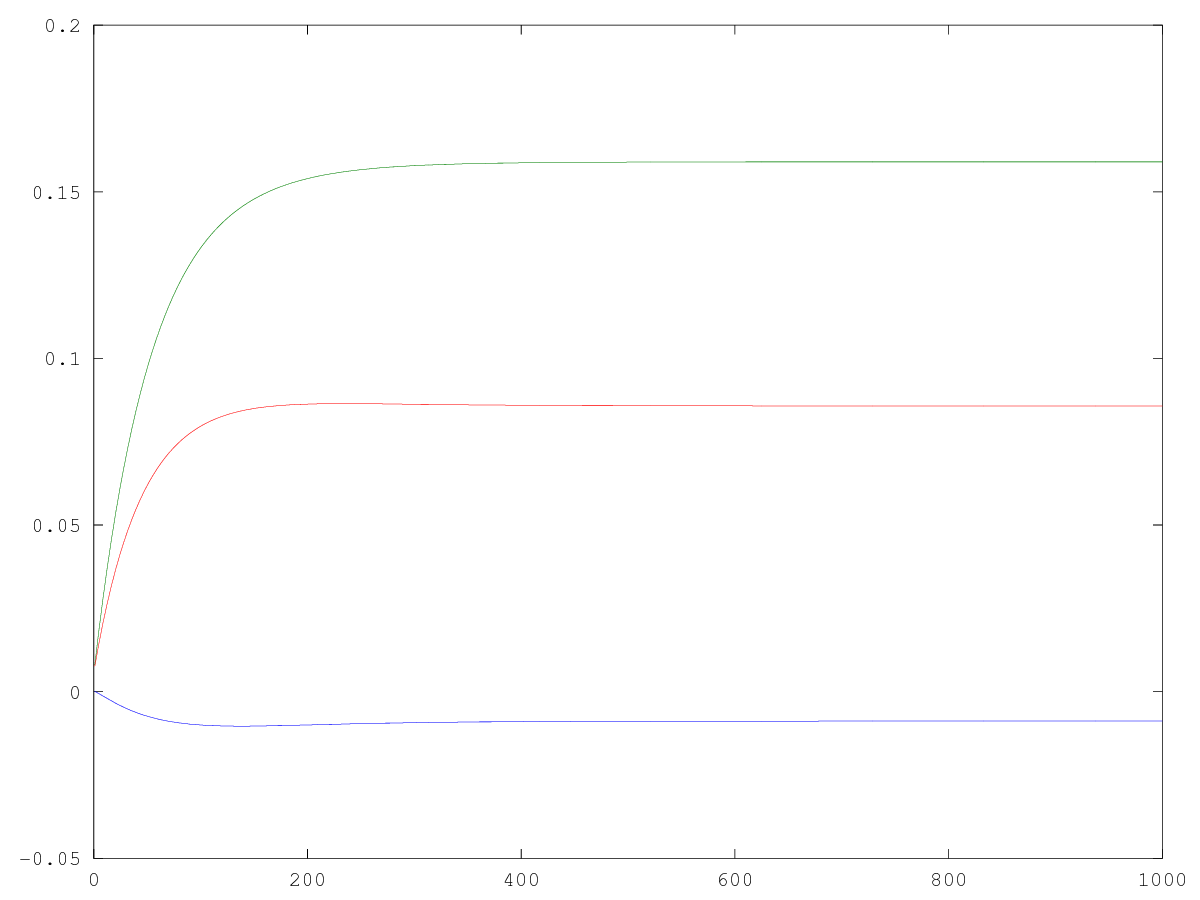
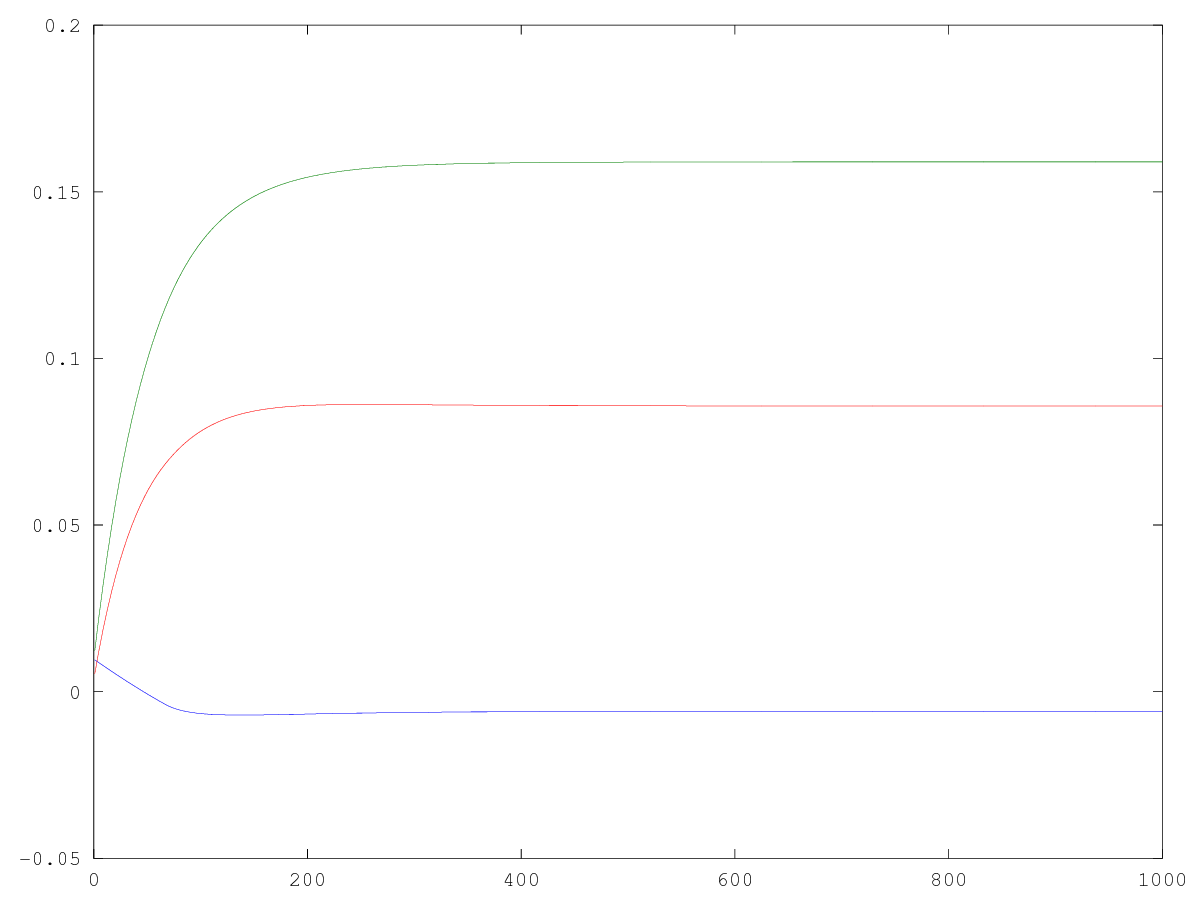
lsat gender experiment

diff --git a/octave-src/sample/LawStudents/gender/GAMMA=LARGE/model.m b/octave-src/sample/LawStudents/gender/GAMMA=LARGE/model.m
@@ -1,10 +1,10 @@
-# Created by Octave 4.0.0, Mon Jul 23 15:44:24 2018 UTC <ubuntu@trec-big>
+# Created by Octave 4.0.0, Tue Jul 24 10:40:40 2018 UTC <ubuntu@lsat>
 # name: omega
 # type: matrix
 # rows: 3
 # columns: 1
- -0.008816211017445548
- 0.1589698802245934
- 0.08573265104307663
+ -0.005889863210337462
+ 0.1589579119521604
+ 0.08572249948997823
 
 
